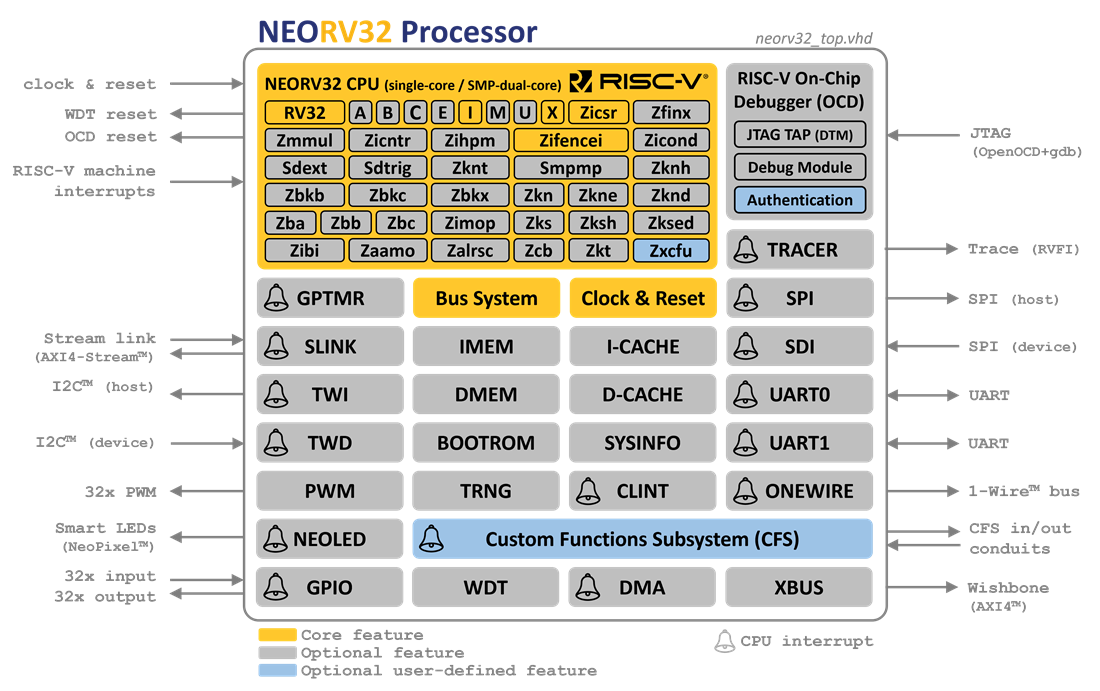
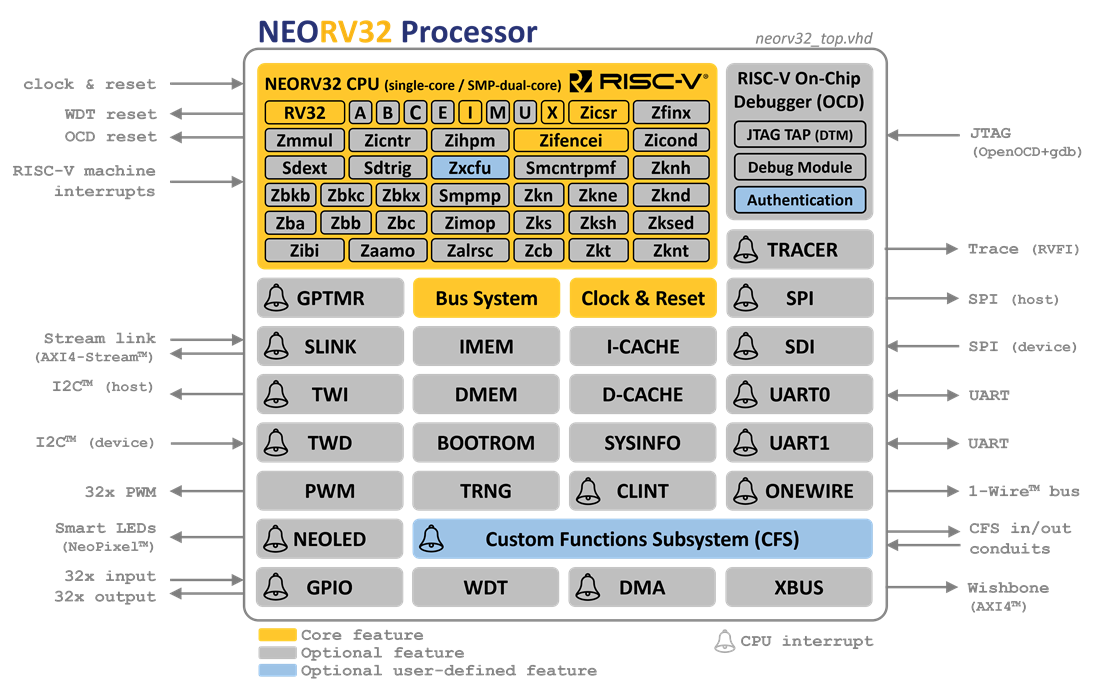
[cpu] add Smcntrpmf ISA extension

Changed region(s): [[0.2473, 0.2127, 0.5564, 0.3039], [0.5564, 0.3343, 0.6491, 0.3951]]

diff --git a/README.md b/README.md
@@ -112,6 +112,7 @@ setup according to your needs. Note that all of the following SoC modules are en
 [`Zxcfu`](https://stnolting.github.io/neorv32/#_zxcfu_isa_extension)
 [`Sdext`](https://stnolting.github.io/neorv32/#_sdext_isa_extension)
 [`Sdtrig`](https://stnolting.github.io/neorv32/#_sdtrig_isa_extension)
+[`Smcntrpmf`](https://stnolting.github.io/neorv32/#_smcntrpmf_isa_extension)
 [`Smpmp`](https://stnolting.github.io/neorv32/#_smpmp_isa_extension)
 * compatible to subsets of the RISC-V "Unprivileged ISA Specification" and "Privileged Architecture Specification"
 * `machine` and `user` privilege modes
